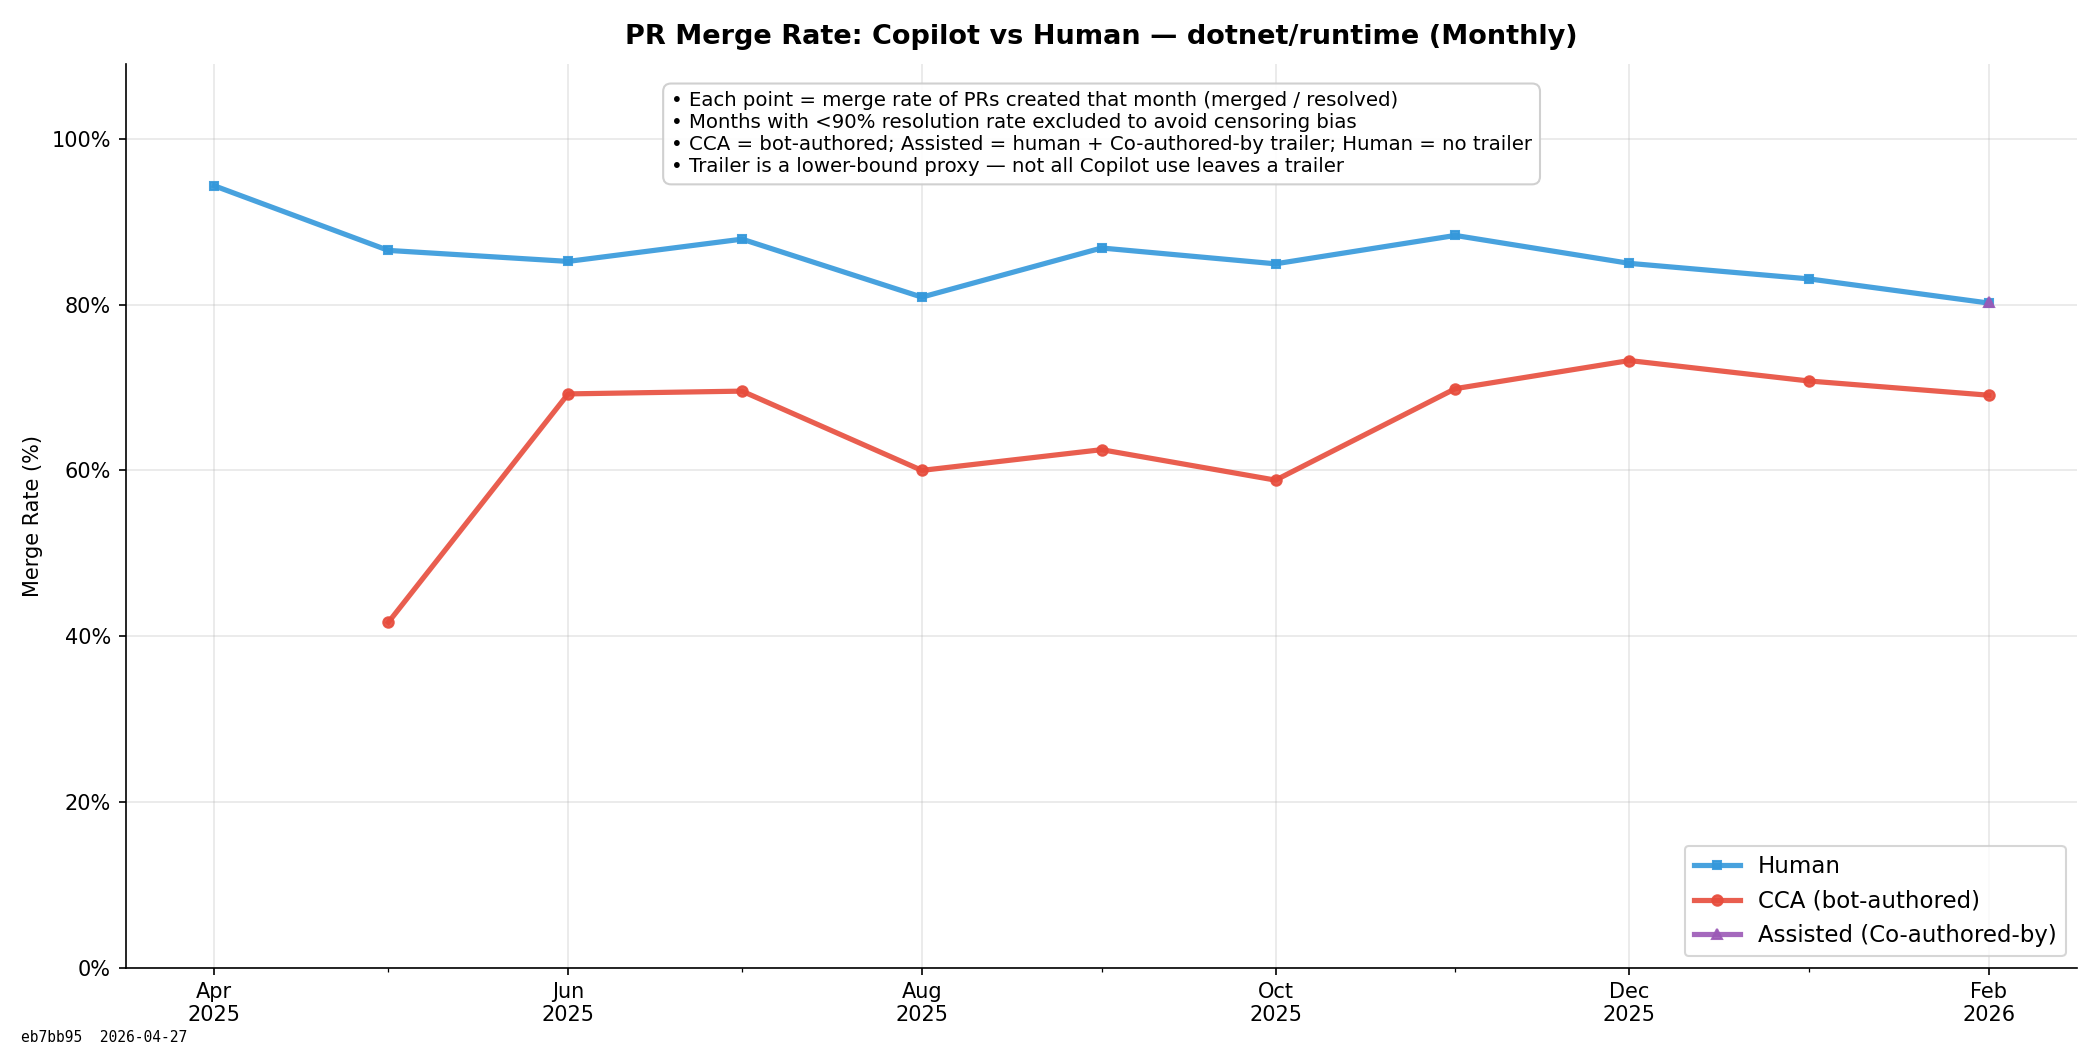
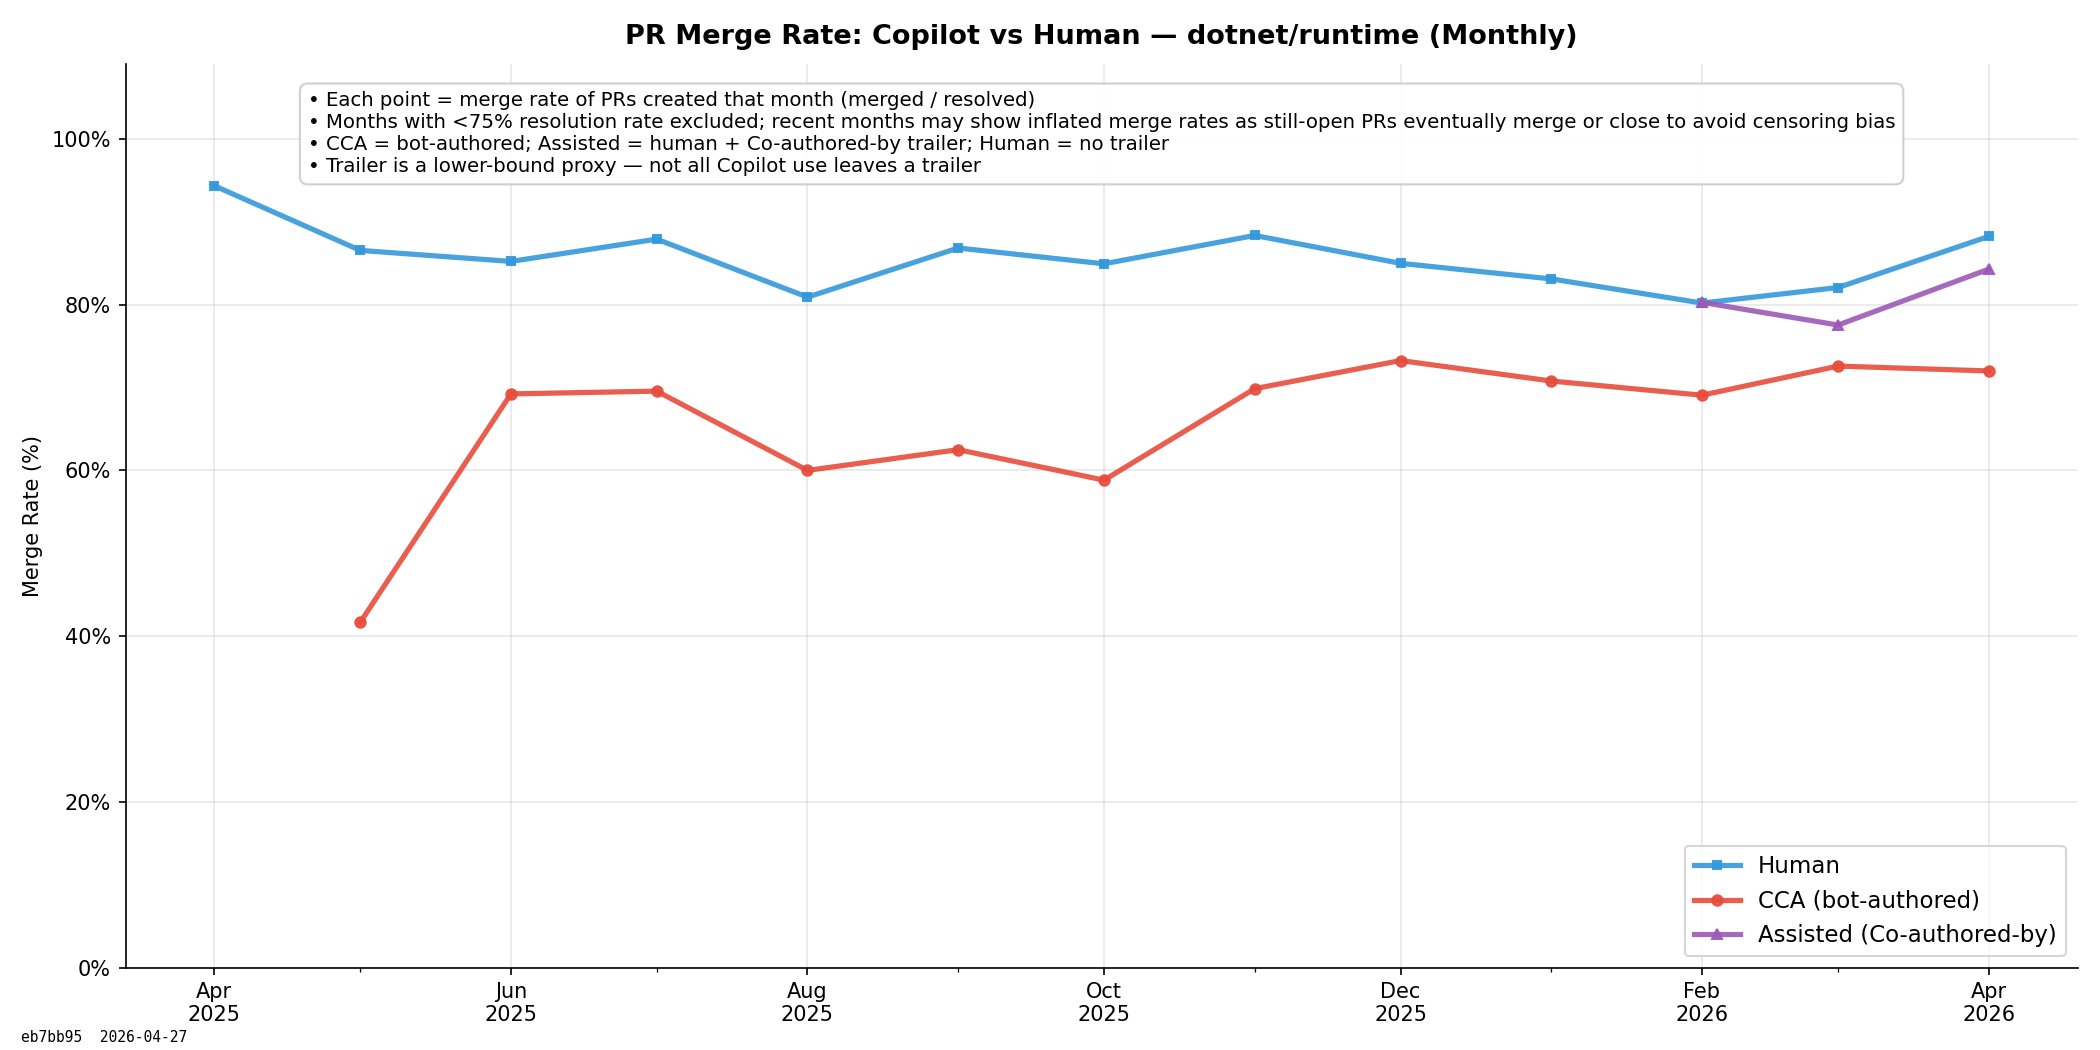
eb7bb95/97a3b79: lower resolution-rate gate to 75%; drop n= labels
MIN_RESOLUTION_RATE lowered from 0.90 to 0.75 in chart_copilot_merge_success and chart_copilot_time_to_merge so the Assisted (Co-authored-by) line has enough months to render. Previously only Feb 2026 passed the 90% gate and matplotlib won't draw a 1-point line. Insight bullets updated to warn that recent months may shift as still-open PRs continue to resolve.

Also removed the per-point n= sample-size annotations on 97a3b79 (chart_copilot_time_to_merge) for visual consistency with eb7bb95 (chart_copilot_merge_success).

diff --git a/analyze.py b/analyze.py
@@ -2079,7 +2079,7 @@ def chart_copilot_merge_success(all_items, output_dir):
     if months and (today - months[-1]).days < 14:
         months = months[:-1]
     # Drop months where < 90% of PRs are resolved (right-censoring bias)
-    MIN_RESOLUTION_RATE = 0.90
+    MIN_RESOLUTION_RATE = 0.75
     def _resolved(d):
         return d["cca_m"] + d["cca_r"] + d["asst_m"] + d["asst_r"] + d["hum_m"] + d["hum_r"]
     def _all(d):
@@ -2123,7 +2123,7 @@ def chart_copilot_merge_success(all_items, output_dir):
     ax.legend(loc="lower right", fontsize=11)
     add_insight_box(ax, [
         "Each point = merge rate of PRs created that month (merged / resolved)",
-        "Months with <90% resolution rate excluded to avoid censoring bias",
+        "Months with <75% resolution rate excluded; recent months may show inflated merge rates as still-open PRs eventually merge or close to avoid censoring bias",
         "CCA = bot-authored; Assisted = human + Co-authored-by trailer; Human = no trailer",
         "Trailer is a lower-bound proxy — not all Copilot use leaves a trailer",
     ])
@@ -2187,7 +2187,7 @@ def chart_copilot_time_to_merge(all_items, output_dir):
     if months and (today - months[-1]).days < 14:
         months = months[:-1]
     # Drop months where < 90% of PRs are resolved (merged or closed) to avoid survivorship bias
-    MIN_RESOLUTION_RATE = 0.90
+    MIN_RESOLUTION_RATE = 0.75
     def _resolved(d):
         return d["cca"] + d["asst"] + d["hum"]
     months = [m for m in months if (
@@ -2233,21 +2233,11 @@ def chart_copilot_time_to_merge(all_items, output_dir):
     ax.plot(months, asst_p50, color="#9b59b6", label="Assisted (Co-authored-by) p50",
             linewidth=2.5, alpha=0.9, marker="^", markersize=5)
 
-    # Sample-size annotations on the smaller-N lines
-    for m, p, n in zip(months, cca_p50, cca_ns):
-        if p == p and n > 0:
-            ax.annotate(f"n={n}", (m, p), textcoords="offset points",
-                        xytext=(0, 10), fontsize=7, color="#c0392b", ha="center")
-    for m, p, n in zip(months, asst_p50, asst_ns):
-        if p == p and n > 0:
-            ax.annotate(f"n={n}", (m, p), textcoords="offset points",
-                        xytext=(0, -14), fontsize=7, color="#7d3c98", ha="center")
-
     ax.set_ylim(0, None)
     ax.legend(loc="upper left", fontsize=10)
     add_insight_box(ax, [
         "Each point = median TTM of PRs created that month (merged PRs only)",
-        "Months with low resolution rate excluded to avoid survivorship bias",
+        "Months with <75% resolution rate excluded; recent months may be slightly biased as still-open PRs continue to resolve",
         "CCA = bot-authored; Assisted = human + Co-authored-by trailer; Human = no trailer",
         "Min sample size: 3 PRs for CCA/Assisted (small populations); 10 for Human",
     ])
